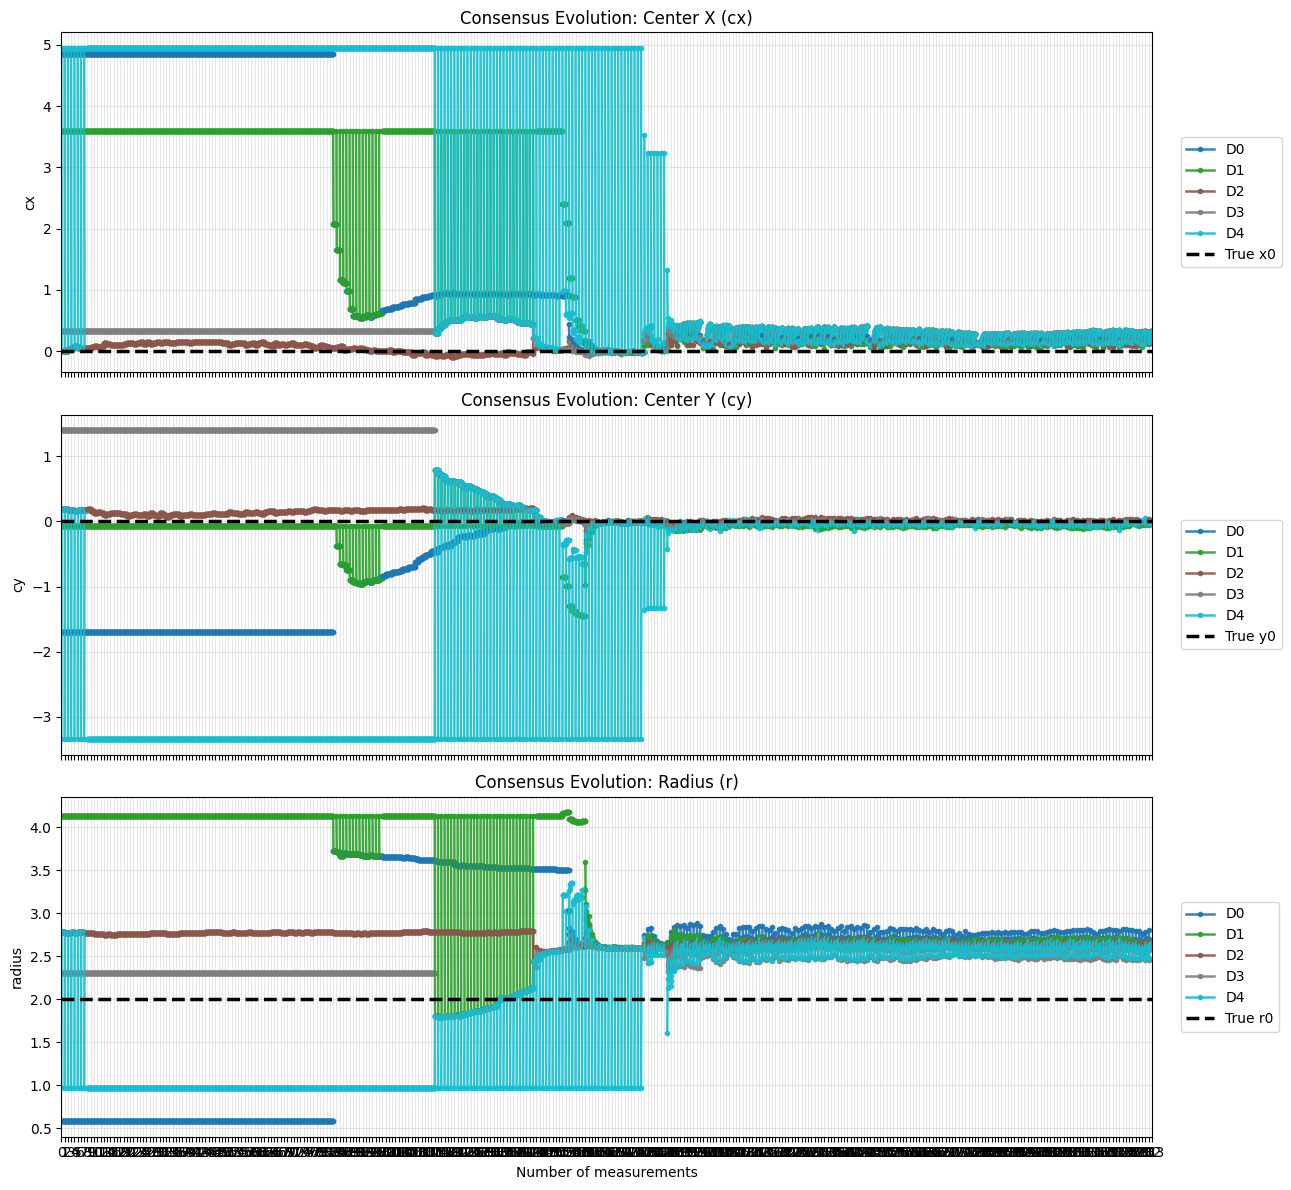
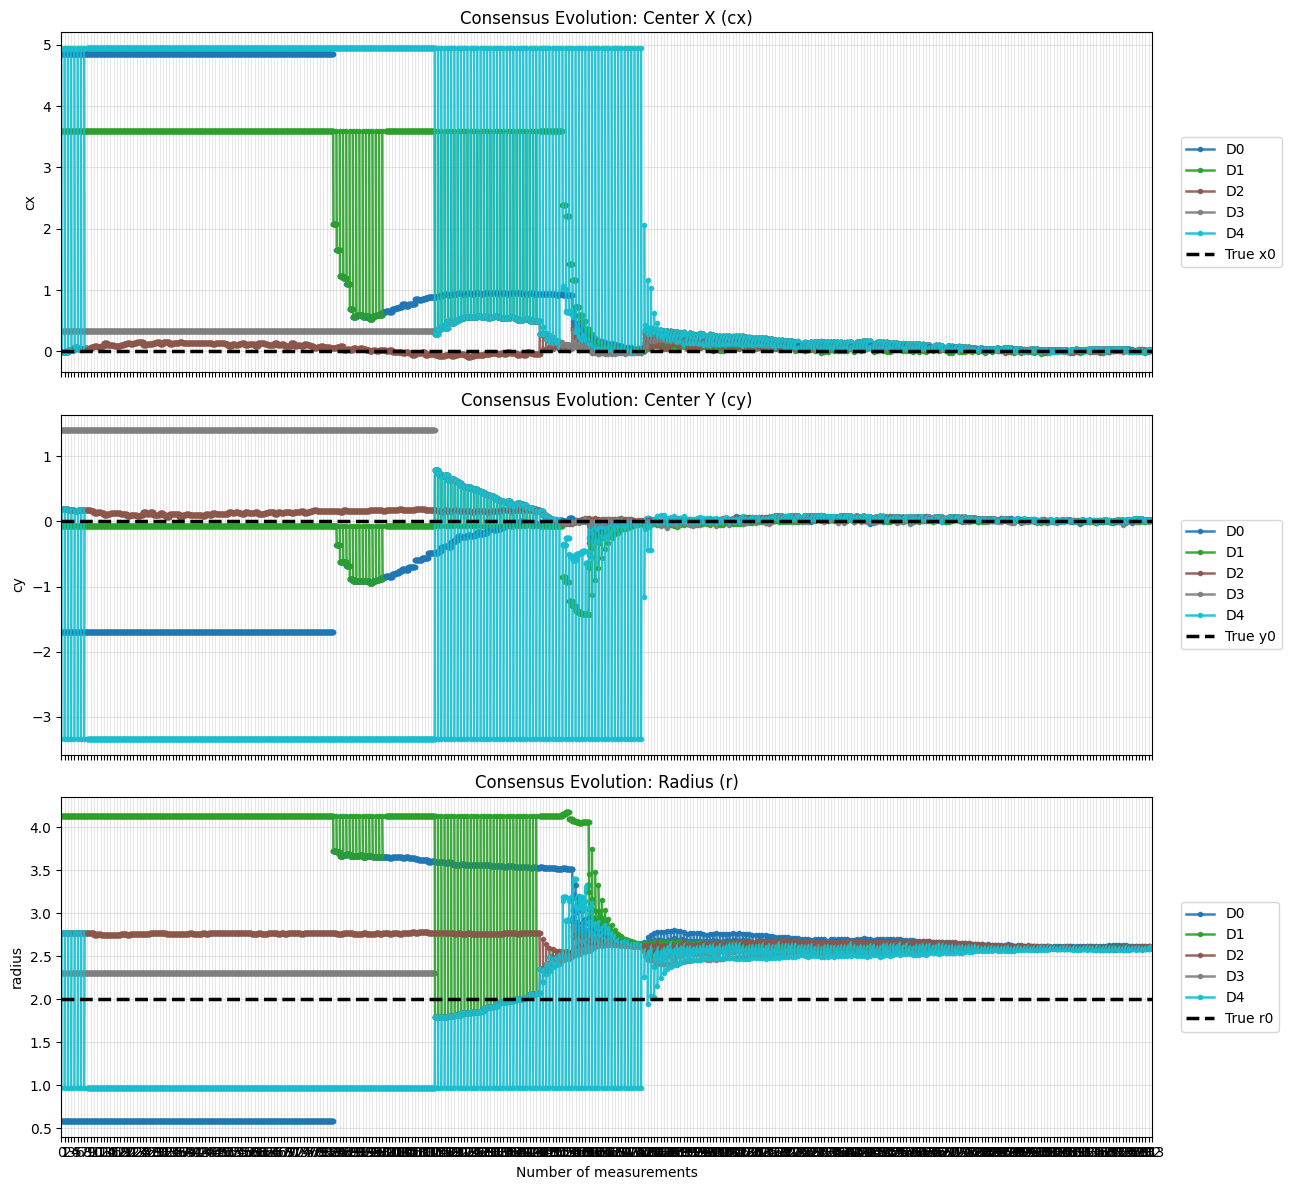
minor fix

diff --git a/simulation_engine.py b/simulation_engine.py
@@ -490,10 +490,13 @@ class SimulationEngine:
         max_diff = 0.0
         for drone in self.drones:
             # Temporal tracking: theta = alpha * theta_fused + (1 - alpha) * theta_prev
-            alpha = drone.confidence_weight / (drone.confidence_weight + self.lambda_smooth)
-            if not drone.edge_detected and drone.confidence_weight < 1e-6:
-                # If no current measurement, alpha is 0, keeping previous theta
-                alpha = 0.0
+            if drone.confidence_weight > 1e-6:
+                alpha = float(drone.confidence_weight / (drone.confidence_weight + self.lambda_smooth))
+            else:
+                # If no measurement, follow consensus slowly (20% update) if it was influenced by neighbors.
+                # theta_fused started as drone.theta (the previous estimate) before consensus iterations.
+                diff_fused = float(np.linalg.norm(drone.theta_fused - drone.theta))
+                alpha = 0.2 if diff_fused > 1e-12 else 0.0
                 
             new_theta = alpha * drone.theta_fused + (1.0 - alpha) * drone.theta
             diff = np.linalg.norm(new_theta - drone.theta)
@@ -540,6 +543,7 @@ class SimulationEngine:
 
         for drone in self.drones:
             drone.has_measure = False
+            drone.confidence_weight = 0.0
             history = self.estimates_history[drone.drone_id]
             history["cx"].append(float(drone.theta[0]))
             history["cy"].append(float(drone.theta[1]))
